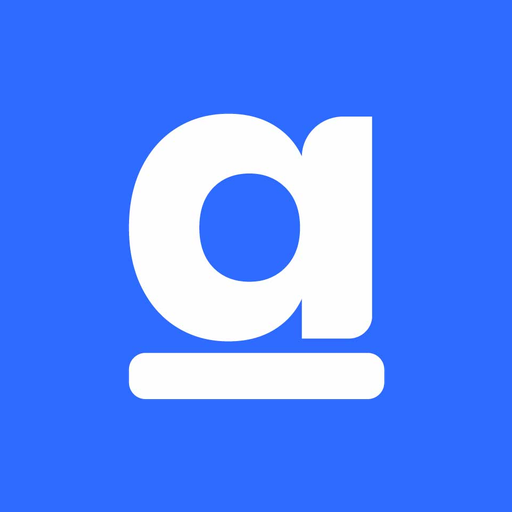
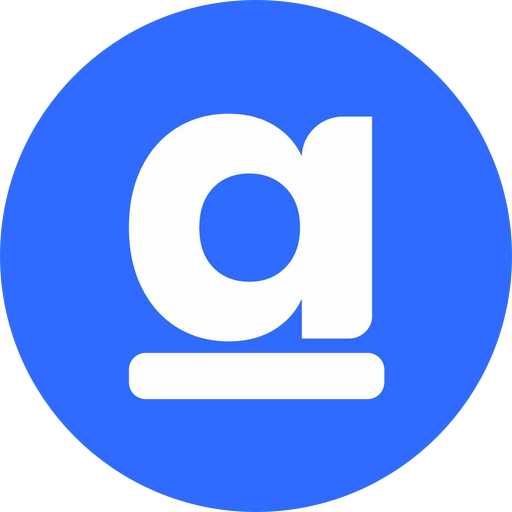
Ícone redondo no azul da marca, e o card morre com a conversa
Duas coisas, uma de cada tela.

O ÍCONE DA ABA. Era um quadrado, e agora é o círculo da esfera da AZUZ,
no #2f6bff — a cor amostrada do próprio logo, a mesma que o ícone já
usava de fundo. O "a" branco fica: é ele que identifica o site numa aba
de 16 pixels.

O .ico passa a ter 16, 32, 48 e 64 em vez de um 64 sozinho. O navegador
escolhe o mais próximo do que precisa, e com um tamanho único cada um
deles era reduzido na hora de desenhar — redução sem controle numa forma
redonda come a borda, que é justamente o que distingue um círculo de um
quadrado.

O apple-icon NÃO virou círculo, de propósito: o iOS aplica a máscara
dele por cima de qualquer ícone de tela inicial, e um círculo com canto
transparente ali ganha quatro quinas pretas.

APAGAR A CONVERSA APAGA O CARD DO FUNIL. "Tudo é interligado."

A conversa saía e o negócio ficava. Quem limpa a caixa de entrada vê a
lista esvaziar e, minutos depois, encontra o funil com as MESMAS pessoas
— vinte e oito cartões de telefone sem nome numa coluna só, cada um
prometendo uma conversa que não existe mais. Clicar em "chat" ali abre o
nada.

O casamento é pelo nome, a mesma chave que `renomearConversa` já move
dos dois lados pelo mesmo motivo: deixar um sem o outro faz as duas
telas falarem de pessoas diferentes.

O CONTATO FICA, e o aviso agora diz isso. Ele é a agenda da empresa:
etiqueta, campo próprio, origem e o histórico de quem já recebeu
disparo. Apagar a conversa é dizer "não falo mais com essa pessoa aqui";
[…]

diff --git a/src/app/api/conversas/[id]/route.ts b/src/app/api/conversas/[id]/route.ts
@@ -70,8 +70,26 @@ export async function DELETE(request: Request, ctx: RouteContext<"/api/conversas
   });
   if (!conversa) return NextResponse.json({ erro: "Conversa não encontrada" }, { status: 404 });
 
+  /*
+   * APAGAR A CONVERSA APAGA O CARD DO FUNIL. "Tudo é interligado."
+   *
+   * A conversa saía e o negócio ficava. Quem limpa a caixa de entrada vê a lista esvaziar e,
+   * minutos depois, encontra o funil com as MESMAS pessoas — vinte e oito cartões de telefone sem
+   * nome numa coluna só, cada um prometendo uma conversa que não existe mais. Clicar em "chat" ali
+   * abre o nada.
+   *
+   * O casamento é pelo NOME, como em todo o resto do CRM (`MensagemExtra.contato`,
+   * `NegocioCard.nome`) — é a mesma chave que `renomearConversa` já move dos dois lados pelo mesmo
+   * motivo: deixar um sem o outro faz as duas telas falarem de pessoas diferentes.
+   *
+   * O CONTATO FICA, e isso é deliberado. Ele é a agenda da empresa: carrega etiqueta, campo
+   * próprio, origem e o histórico de quem já recebeu disparo. Apagar a conversa é dizer "não falo
+   * mais com essa pessoa aqui"; não é dizer "essa pessoa nunca existiu". Quem quer tirá-la de vez
+   * tem a tela de Contatos, onde a decisão é explícita.
+   */
   await prisma.$transaction([
     prisma.mensagemExtra.deleteMany({ where: { workspaceId: sessao.user.workspaceId, contato: conversa.nome } }),
+    prisma.negocioCard.deleteMany({ where: { workspaceId: sessao.user.workspaceId, nome: conversa.nome } }),
     prisma.conversa.delete({ where: { id } }),
   ]);
 

diff --git a/src/app/(app)/conversas/page.tsx b/src/app/(app)/conversas/page.tsx
@@ -5362,7 +5362,16 @@ function ConversasPageInner() {
                         className="dropdown-item"
                         style={{ width: "100%", textAlign: "left", color: "var(--danger)" }}
                         onClick={() => {
-                          if (window.confirm(traduzir("Excluir a conversa com {nome}? Isso apaga as mensagens dela também. Não dá pra desfazer.", { nome: c.nome }))) {
+                          /* O aviso diz TUDO que some. Antes falava só das mensagens, e o card do
+                             funil ia junto sem ninguém ser avisado — ou, pior, ficava. */
+                          if (
+                            window.confirm(
+                              traduzir(
+                                "Excluir a conversa com {nome}? Some a conversa, as mensagens dela e o card desta pessoa no funil. O contato continua em Contatos. Não dá pra desfazer.",
+                                { nome: c.nome },
+                              ),
+                            )
+                          ) {
                             excluirConversa(c.id);
                           }
                           setRowMenuAberto(null);
